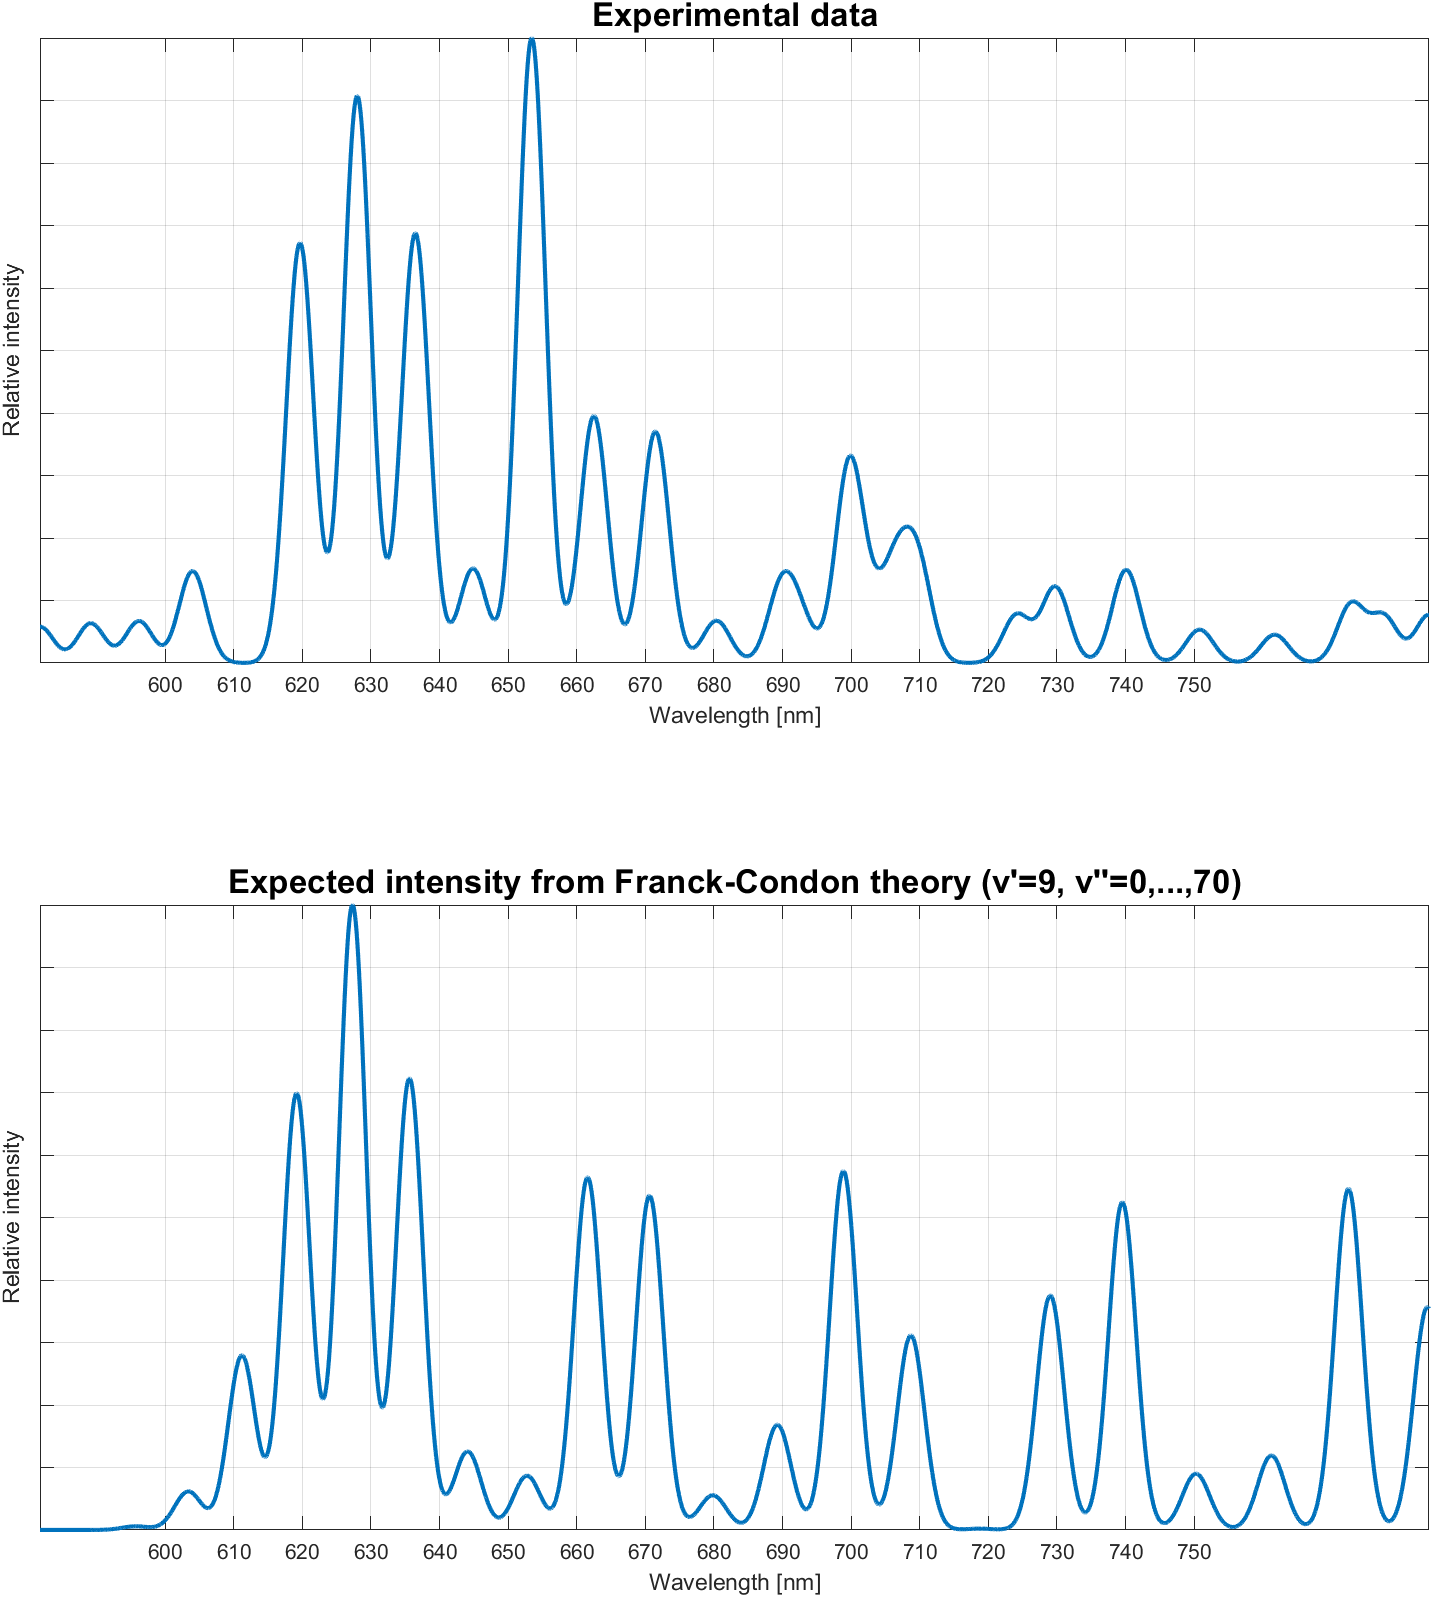
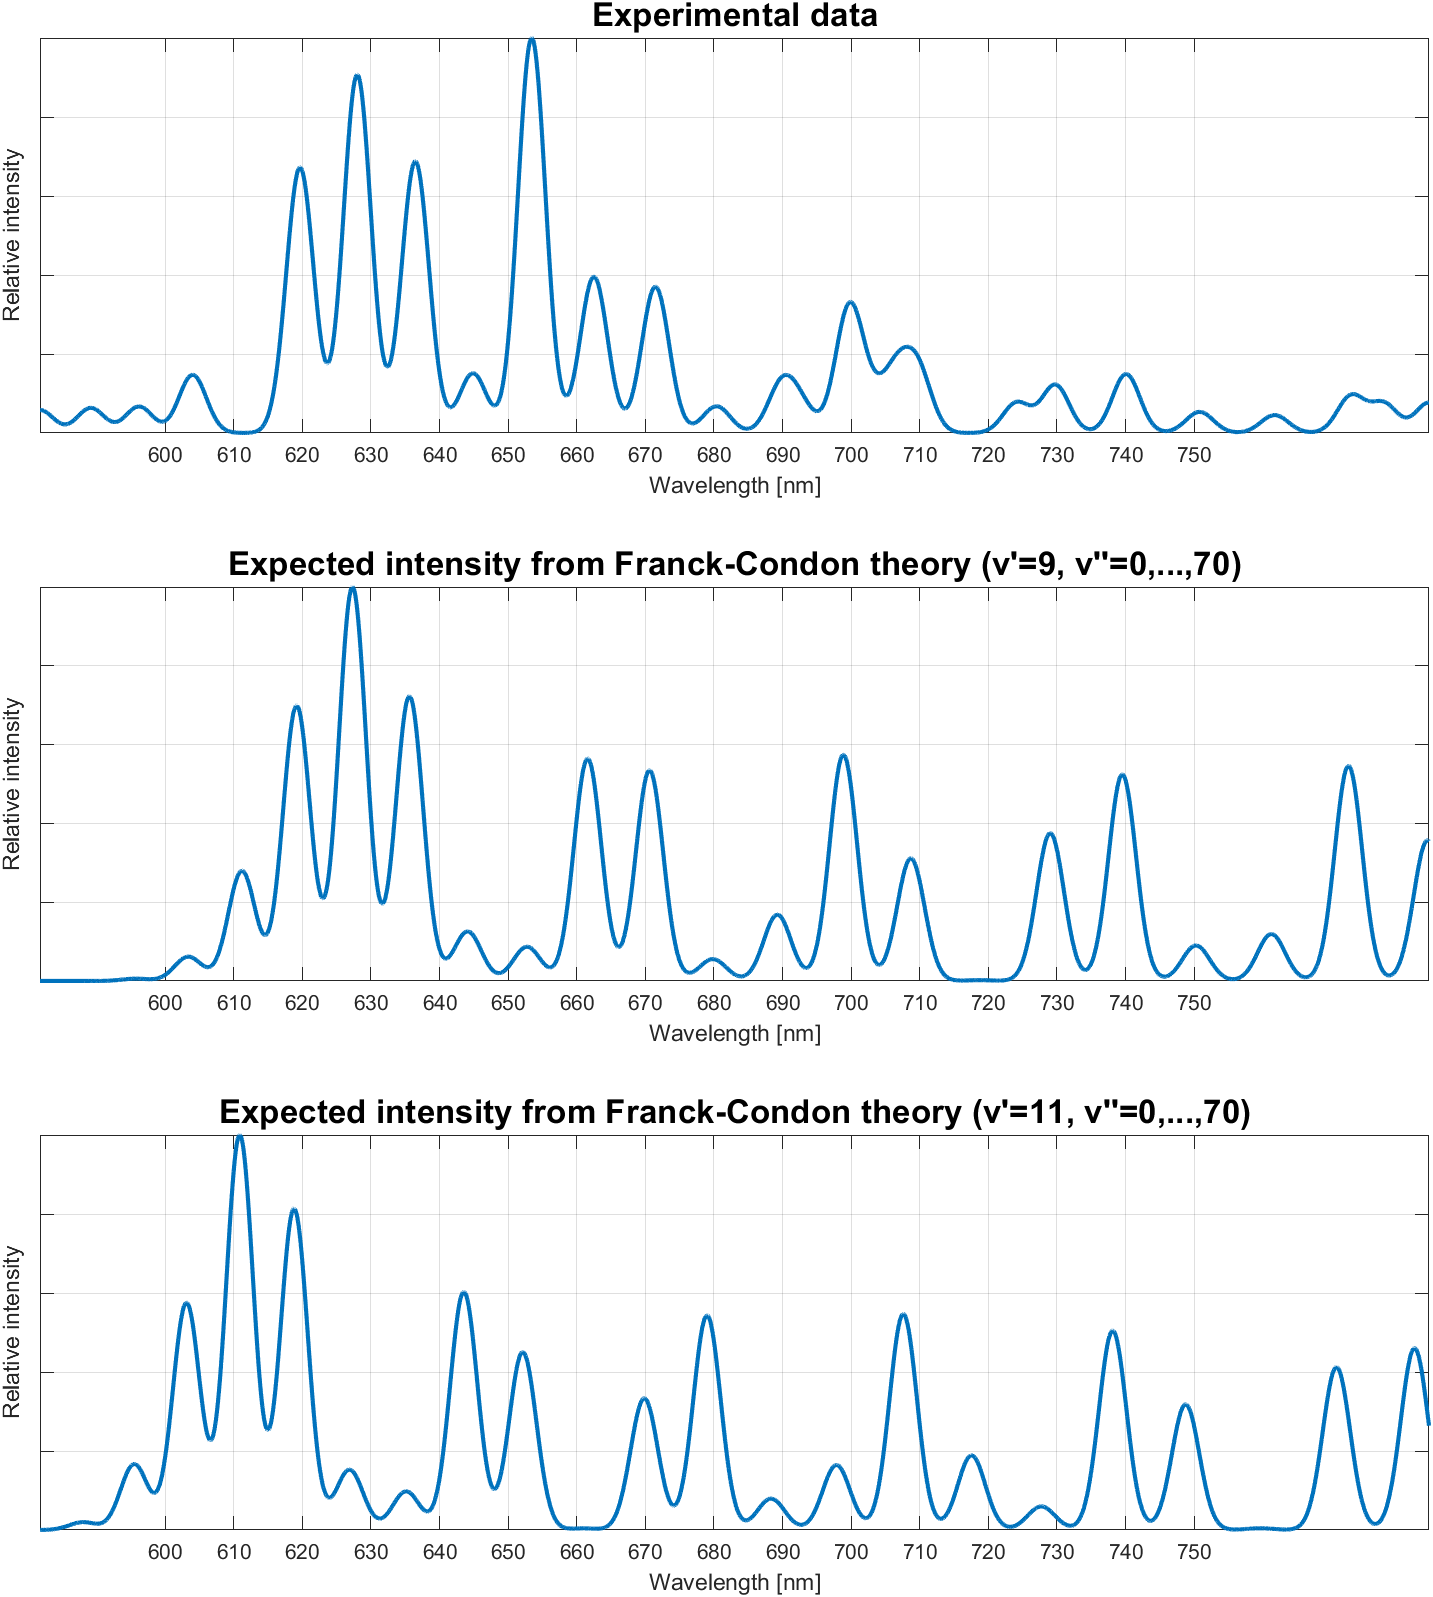
Add subplot

diff --git a/morse_franckcondon.m b/morse_franckcondon.m
@@ -129,7 +129,7 @@ for j=1:length(exp_wavelengths)
 end
 
 y = y/max(y);
-subplot(2,1,1)
+subplot(3,1,1)
 % bar(exp_wavelengths, exp_intensities)
 plot(x,y,'linewidth',2)
 grid on
@@ -140,7 +140,7 @@ xlabel("Wavelength [nm]")
 ylabel("Relative intensity")
 axis([interval_start interval_end 0 1])
 
-% Now plot theoretical data
+% Now plot theoretical data v'=9
 overlap_plot = overlap(:,10); energy_difference_plot = energy_difference(:,10);
 % overlap_plot = overlap(1:15, 2:16); energy_difference_plot = energy_difference(1:15,2:16);
 flat_energy = reshape(energy_difference_plot, [1 numel(energy_difference_plot)]);
@@ -157,13 +157,37 @@ end
 
 y = y/max(y);
 
-subplot(2,1,2)
+subplot(3,1,2)
 plot(x,y,'linewidth',2)
 grid on
 xticks((600:10:750)*1e-9); xt=xticks; xticklabels(xt*1e9)
 xlabel("Wavelength [nm]")
 ylabel("Relative intensity")
 title("Expected intensity from Franck-Condon theory (v'=9, v''=0,...,70)",'fontsize',16)
+yticklabels([])
+axis([interval_start interval_end 0 1])
+
+% Now plot theoretical data v'=11
+overlap_plot = overlap(:,12); energy_difference_plot = energy_difference(:,12);
+flat_energy = reshape(energy_difference_plot, [1 numel(energy_difference_plot)]);
+flat_overlap = reshape(overlap_plot, [1 numel(overlap_plot)]);
+wavelength = energy_to_m(flat_energy);
+
+y = 0*x;
+
+for j=1:length(wavelength)
+    y = y + flat_overlap(j)*gauss(x,wavelength(j),sig);
+end
+
+y = y/max(y);
+
+subplot(3,1,3)
+plot(x,y,'linewidth',2)
+grid on
+xticks((600:10:750)*1e-9); xt=xticks; xticklabels(xt*1e9)
+xlabel("Wavelength [nm]")
+ylabel("Relative intensity")
+title("Expected intensity from Franck-Condon theory (v'=11, v''=0,...,70)",'fontsize',16)
 yticklabels([])
 axis([interval_start interval_end 0 1])
 %% For testing
